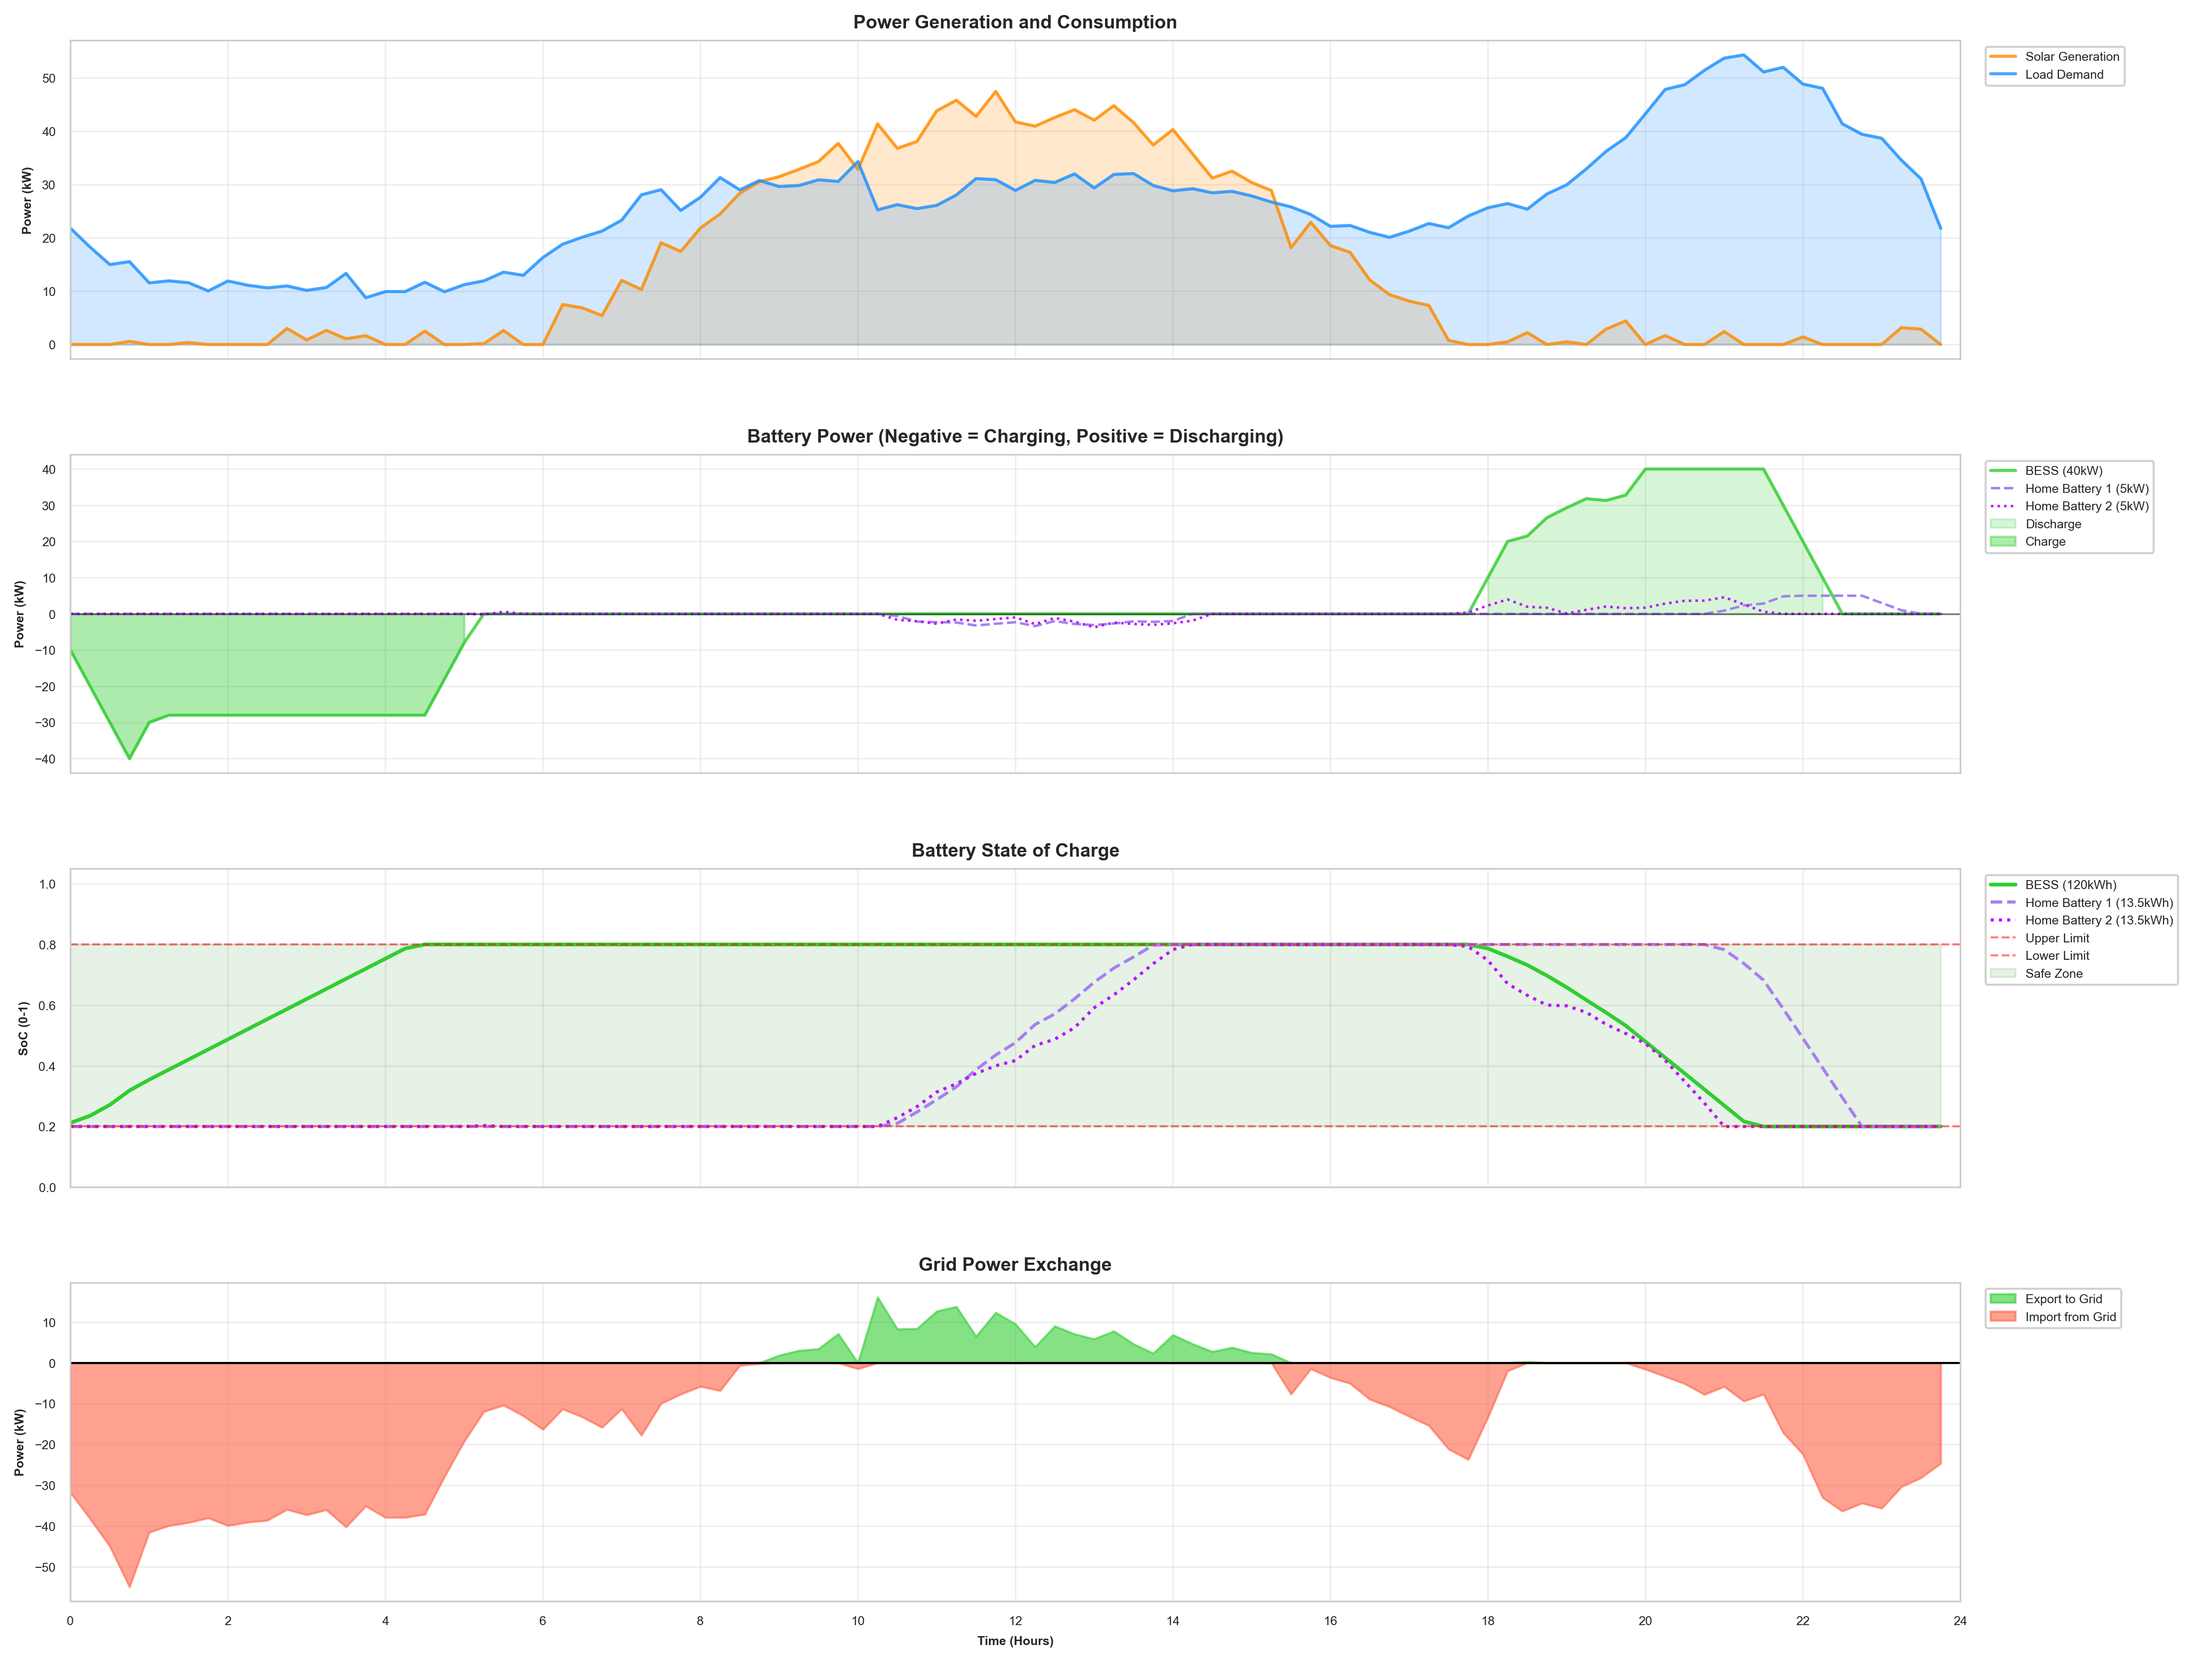
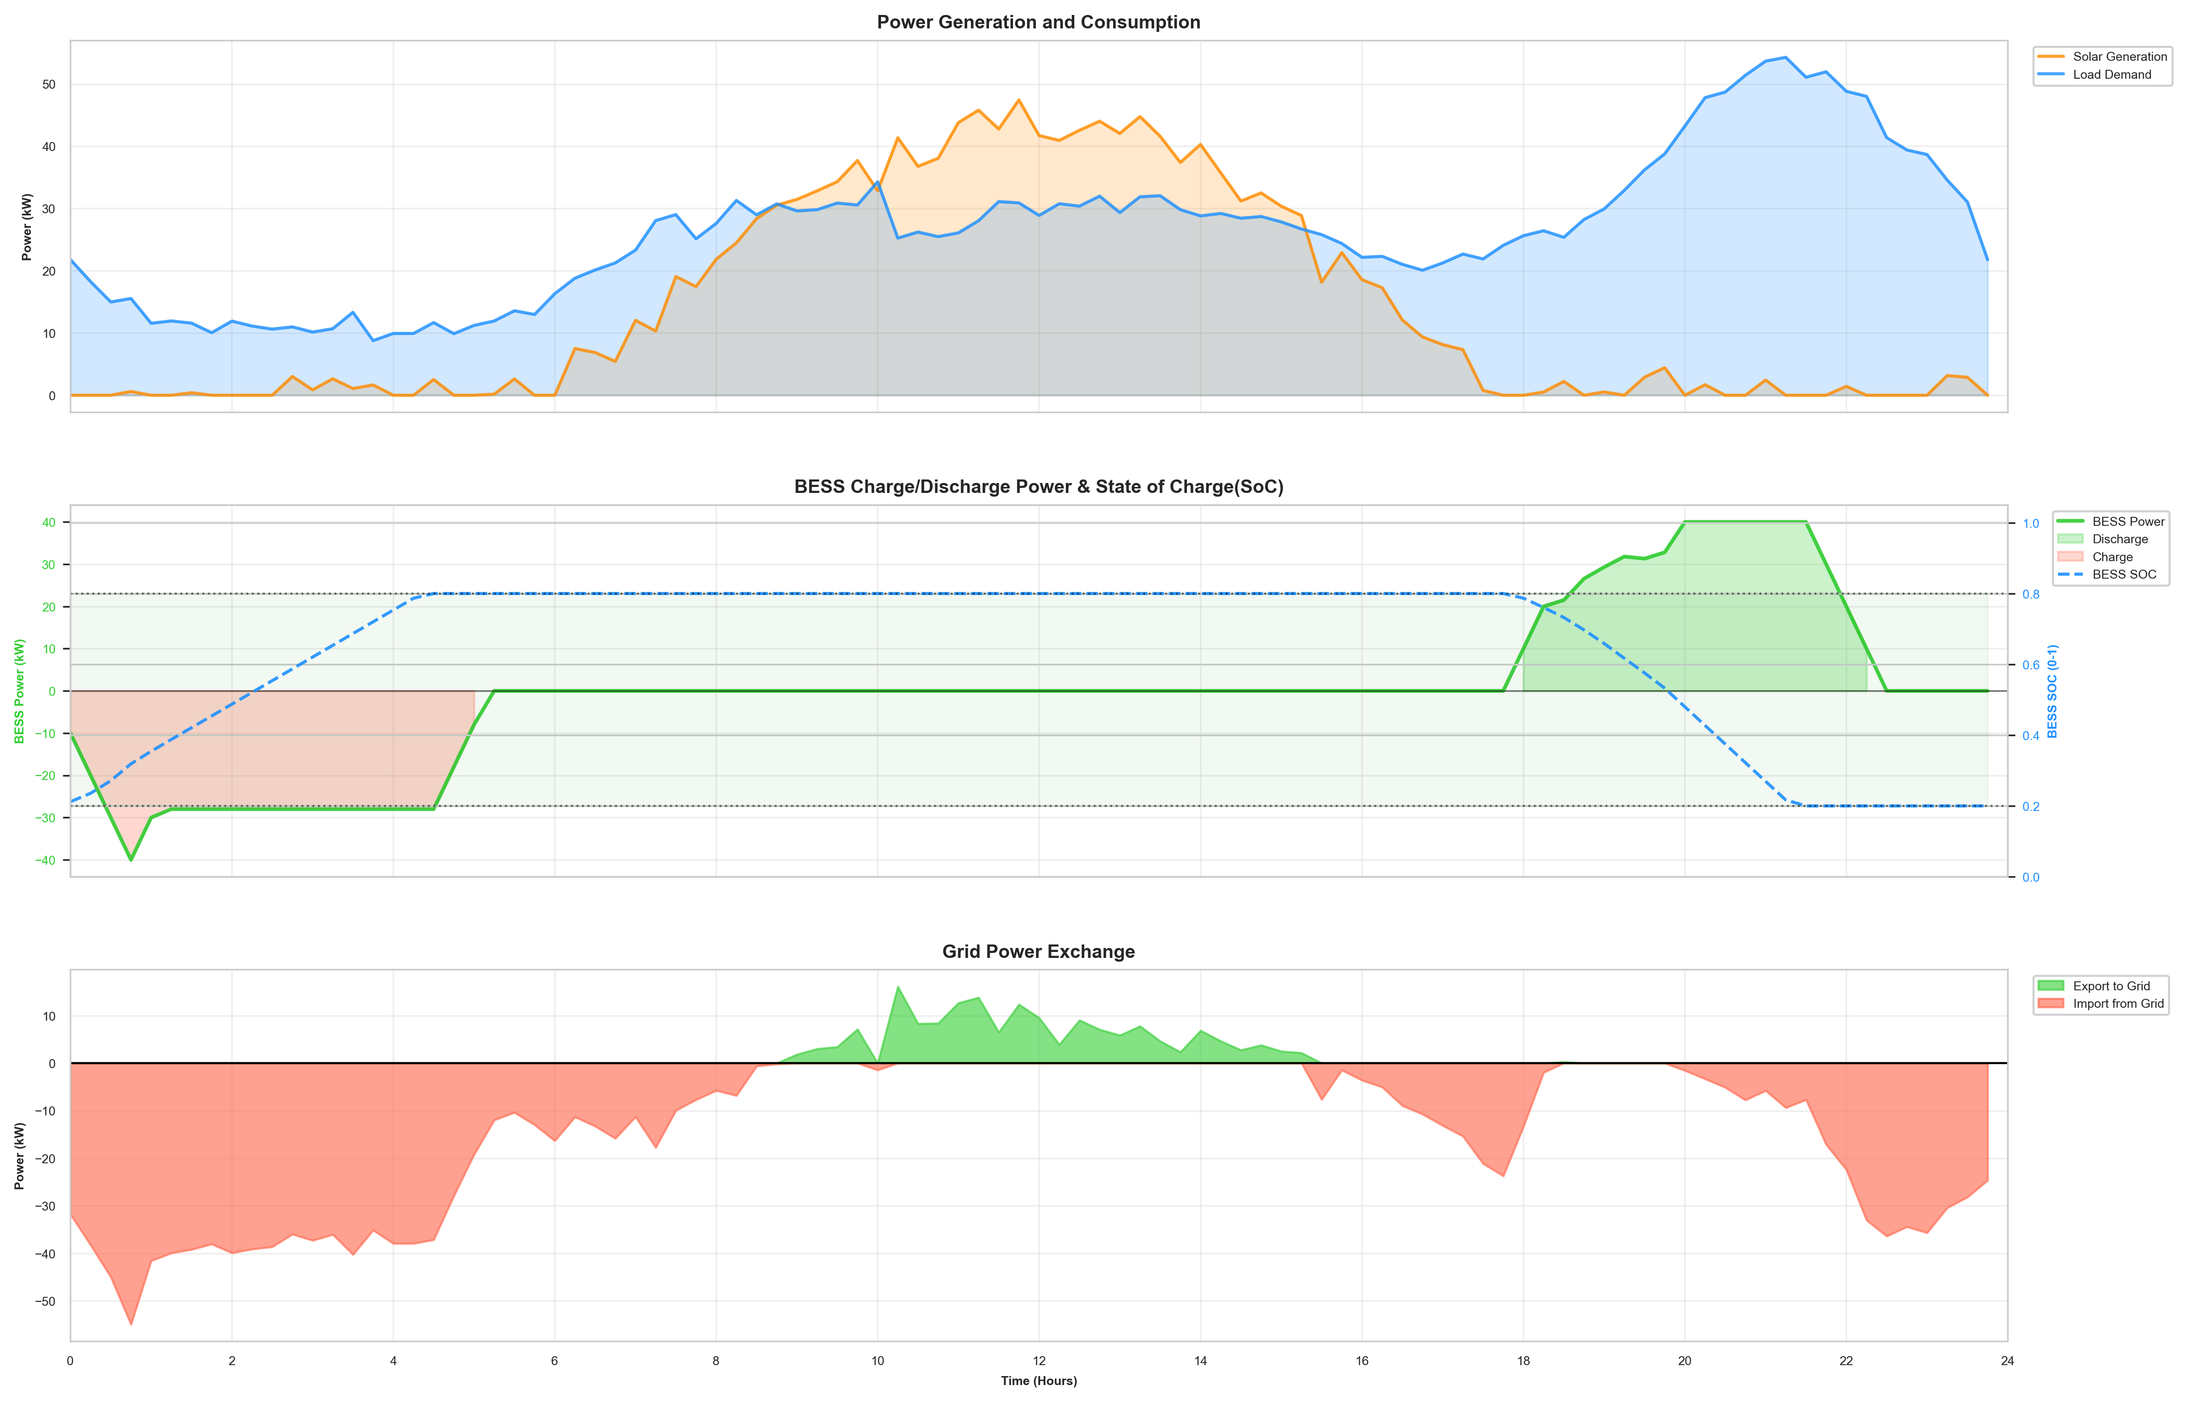
plots update

diff --git a/RL_agent/plot_results.py b/RL_agent/plot_results.py
@@ -91,7 +91,10 @@ history = {
     "rewards": [],  # Track rewards
     "grid_import": [],  # Track grid interactions
     "grid_export": [],
-    "net_power": []  # Net power flow
+    "net_power": [],  # Net power flow
+    # Per-node data for homes
+    "hb1_load": [], "hb1_solar": [],
+    "hb2_load": [], "hb2_solar": []
 }
 
 print("[INFO] Running simulation for 1 day (96 steps)...")
@@ -112,6 +115,12 @@ for step in range(steps_to_plot):
     load_total = np.sum(real_env.load_episode[t])
     history["solar"].append(solar_total)
     history["load"].append(load_total)
+    
+    # Per-node data for homes
+    history["hb1_load"].append(real_env.load_episode[t][HOME_BATTERY_INDICES[0]])
+    history["hb1_solar"].append(real_env.solar_episode[t][HOME_BATTERY_INDICES[0]])
+    history["hb2_load"].append(real_env.load_episode[t][HOME_BATTERY_INDICES[1]])
+    history["hb2_solar"].append(real_env.solar_episode[t][HOME_BATTERY_INDICES[1]])
     
     history["hb1_power"].append(real_env.node_battery_power_kw[HOME_BATTERY_INDICES[0]])
     history["hb2_power"].append(real_env.node_battery_power_kw[HOME_BATTERY_INDICES[1]])
@@ -186,7 +195,7 @@ print(f"[OK] Saved '{output_file_1a}'")
 # FIGURE 2: Comprehensive Power & Economics
 # ==========================================
 print("[INFO] Generating Figure 2 (Detailed Power & Economics)...")
-fig2, axes = plt.subplots(4, 1, figsize=(16, 12), sharex=True)
+fig2, axes = plt.subplots(3, 1, figsize=(16, 10), sharex=True)
 
 # Subplot 1: Power Balance
 axes[0].set_title("Power Generation and Consumption", fontsize=9, fontweight='bold')
@@ -198,56 +207,125 @@ axes[0].set_ylabel("Power (kW)", fontweight='bold')
 axes[0].legend(loc="upper left", bbox_to_anchor=(1.01, 1), framealpha=0.9, fontsize=6)
 axes[0].grid(True, alpha=0.3)
 
-# Subplot 2: Battery Operations
-axes[1].set_title("Battery Power (Negative = Charging, Positive = Discharging)", fontsize=9, fontweight='bold')
-axes[1].plot(time_axis, history["bess_power"], color='#32CD32', linewidth=1.5, label='BESS (40kW)', alpha=0.8)
-axes[1].plot(time_axis, history["hb1_power"], color='#A680F1', linestyle='--', linewidth=1.2, label='Home Battery 1 (5kW)')
-axes[1].plot(time_axis, history["hb2_power"], color='#BC14FF', linestyle=':', linewidth=1.2, label='Home Battery 2 (5kW)')
+# Subplot 2: BESS Charge/Discharge Curve + SOC (Dual Axis)
+axes[1].set_title("BESS Charge/Discharge Power & State of Charge(SoC)", fontsize=9, fontweight='bold')
+# Left y-axis: Power
+axes[1].plot(time_axis, history["bess_power"], color='#32CD32', linewidth=1.8, label='BESS Power', alpha=0.9)
+axes[1].fill_between(time_axis, 0, history["bess_power"], where=np.array(history["bess_power"])>0, color='#32CD32', alpha=0.25, label='Discharge')
+axes[1].fill_between(time_axis, 0, history["bess_power"], where=np.array(history["bess_power"])<0, color='#FF6347', alpha=0.25, label='Charge')
 axes[1].axhline(y=0, color='black', linestyle='-', linewidth=0.8, alpha=0.5)
-axes[1].fill_between(time_axis, 0, history["bess_power"], where=np.array(history["bess_power"])>0, color='#32CD32', alpha=0.2, label='Discharge')
-axes[1].fill_between(time_axis, 0, history["bess_power"], where=np.array(history["bess_power"])<0, color='#32CD32', alpha=0.4, label='Charge')
-axes[1].set_ylabel("Power (kW)", fontweight='bold')
-axes[1].legend(loc="upper left", bbox_to_anchor=(1.01, 1), framealpha=0.9, fontsize=6)
+axes[1].set_ylabel("BESS Power (kW)", fontweight='bold', color='#32CD32')
+axes[1].tick_params(axis='y', labelcolor='#32CD32')
+# Right y-axis: SOC
+ax1_right = axes[1].twinx()
+ax1_right.plot(time_axis, history["soc_bess"], color='#1E90FF', linewidth=1.5, linestyle='--', label='BESS SOC', alpha=0.9)
+ax1_right.axhline(y=0.8, color='black', linestyle=':', linewidth=1, alpha=0.5)
+ax1_right.axhline(y=0.2, color='black', linestyle=':', linewidth=1, alpha=0.5)
+ax1_right.fill_between(time_axis, 0.2, 0.8, color='green', alpha=0.05)
+ax1_right.set_ylabel("BESS SOC (0-1)", fontweight='bold', color='#1E90FF')
+ax1_right.tick_params(axis='y', labelcolor='#1E90FF')
+ax1_right.set_ylim(0, 1.05)
+# Combined legend
+lines1, labels1 = axes[1].get_legend_handles_labels()
+lines2, labels2 = ax1_right.get_legend_handles_labels()
+axes[1].legend(lines1 + lines2, labels1 + labels2, loc="upper left", bbox_to_anchor=(1.02, 1), framealpha=0.9, fontsize=6)
 axes[1].grid(True, alpha=0.3)
 
-# Subplot 3: Battery State of Charge
-axes[2].set_title("Battery State of Charge", fontsize=9, fontweight='bold')
-axes[2].plot(time_axis, history["soc_bess"], color='#32CD32', linewidth=1.8, label='BESS (120kWh)')
-axes[2].plot(time_axis, history["soc_hb1"], color="#A680F1", linestyle='--', linewidth=1.5, label='Home Battery 1 (13.5kWh)')
-axes[2].plot(time_axis, history["soc_hb2"], color="#BC14FF", linestyle=':', linewidth=1.5, label='Home Battery 2 (13.5kWh)')
-axes[2].axhline(y=0.8, color='red', linestyle='--', linewidth=1, alpha=0.5, label='Upper Limit')
-axes[2].axhline(y=0.2, color='red', linestyle='--', linewidth=1, alpha=0.5, label='Lower Limit')
-axes[2].fill_between(time_axis, 0.2, 0.8, color='green', alpha=0.1, label='Safe Zone')
-axes[2].set_ylabel("SoC (0-1)", fontweight='bold')
-axes[2].set_ylim(0, 1.05)
+# Subplot 3: Grid Interaction
+axes[2].set_title("Grid Power Exchange", fontsize=9, fontweight='bold')
+axes[2].fill_between(time_axis, 0, history["grid_export"], color='#32CD32', alpha=0.6, label='Export to Grid')
+axes[2].fill_between(time_axis, 0, [-x for x in history["grid_import"]], color='#FF6347', alpha=0.6, label='Import from Grid')
+axes[2].axhline(y=0, color='black', linestyle='-', linewidth=1)
+axes[2].set_ylabel("Power (kW)", fontweight='bold')
+axes[2].set_xlabel("Time (Hours)", fontweight='bold')
 axes[2].legend(loc="upper left", bbox_to_anchor=(1.01, 1), framealpha=0.9, fontsize=6)
 axes[2].grid(True, alpha=0.3)
-
-# Subplot 4: Grid Interaction
-axes[3].set_title("Grid Power Exchange", fontsize=9, fontweight='bold')
-axes[3].fill_between(time_axis, 0, history["grid_export"], color='#32CD32', alpha=0.6, label='Export to Grid')
-axes[3].fill_between(time_axis, 0, [-x for x in history["grid_import"]], color='#FF6347', alpha=0.6, label='Import from Grid')
-axes[3].axhline(y=0, color='black', linestyle='-', linewidth=1)
-axes[3].set_ylabel("Power (kW)", fontweight='bold')
-axes[3].set_xlabel("Time (Hours)", fontweight='bold')
-axes[3].legend(loc="upper left", bbox_to_anchor=(1.01, 1), framealpha=0.9, fontsize=6)
-axes[3].grid(True, alpha=0.3)
 
 # Format x-axis
 for ax in axes:
     ax.set_xticks(np.arange(0, 25, 2))
     ax.set_xlim(0, 24)
 
-plt.subplots_adjust(left=0.06, bottom=0.08, right=0.85, top=0.95, hspace=0.3)
+plt.subplots_adjust(left=0.06, bottom=0.08, right=0.87, top=0.95, hspace=0.25)
 output_file_2 = f"{SCENARIO_FOLDER}/1_power_economics_detailed.png"
 plt.savefig(output_file_2, dpi=300, bbox_inches='tight')
 print(f"[OK] Saved '{output_file_2}'")
 
 # ==========================================
-# FIGURE 3: Voltage Profiles (All Nodes)
 # ==========================================
-print("[INFO] Generating Figure 3 (Voltage Profiles)...")
-fig3, axes = plt.subplots(3, 1, figsize=(16, 10), sharex=True)
+# FIGURE 3: Home Batteries - Detailed Per-Home Analysis
+# ==========================================
+print("[INFO] Generating Figure 3 (Home Batteries Details)...")
+fig3, axes = plt.subplots(2, 1, figsize=(16, 10), sharex=True)
+
+# Subplot 1: Home 1 (Node 3) - Load, Solar, Battery Power (Left Axis), SOC (Right Axis)
+axes[0].set_title(f"Home at Node {HOME_BATTERY_INDICES[0]} - Load, Solar, Battery Operations & State of Charge", fontsize=10, fontweight='bold')
+# Left y-axis: Power flows
+axes[0].plot(time_axis, history["hb1_load"], color='#1E90FF', linewidth=1, label='Load Demand', alpha=0.8)
+axes[0].plot(time_axis, history["hb1_solar"], color='#FF8C00', linewidth=1, label='Solar Generation', alpha=0.8)
+axes[0].plot(time_axis, history["hb1_power"], color='#32CD32', linewidth=1, label='Battery Power', alpha=0.8)
+axes[0].fill_between(time_axis, 0, history["hb1_power"], where=np.array(history["hb1_power"])>0, color='#32CD32', alpha=0.2, label='Discharge')
+axes[0].fill_between(time_axis, 0, history["hb1_power"], where=np.array(history["hb1_power"])<0, color='#FF6347', alpha=0.2, label='Charge')
+axes[0].axhline(y=0, color='black', linestyle='-', linewidth=0.8, alpha=0.5)
+axes[0].set_ylabel("Power (kW)", fontweight='bold', color='black')
+axes[0].tick_params(axis='y', labelcolor='black')
+# Right y-axis: SOC
+ax0_right = axes[0].twinx()
+ax0_right.plot(time_axis, history["soc_hb1"], color='#1E90FF', linewidth=1.5, linestyle='--', label='Battery SOC', alpha=0.9)
+ax0_right.axhline(y=0.8, color='black', linestyle=':', linewidth=1, alpha=0.5)
+ax0_right.axhline(y=0.2, color='black', linestyle=':', linewidth=1, alpha=0.5)
+ax0_right.fill_between(time_axis, 0.2, 0.8, color='green', alpha=0.05)
+ax0_right.set_ylabel("Battery SOC (0-1)", fontweight='bold', color='#1E90FF')
+ax0_right.tick_params(axis='y', labelcolor='#1E90FF')
+ax0_right.set_ylim(0, 1.05)
+# Combined legend
+lines0, labels0 = axes[0].get_legend_handles_labels()
+lines0r, labels0r = ax0_right.get_legend_handles_labels()
+axes[0].legend(lines0 + lines0r, labels0 + labels0r, loc="upper left", bbox_to_anchor=(1.03, 1), framealpha=0.9, fontsize=6)
+axes[0].grid(True, alpha=0.3)
+
+# Subplot 2: Home 2 (Node 5) - Load, Solar, Battery Power (Left Axis), SOC (Right Axis)
+axes[1].set_title(f"Home at Node {HOME_BATTERY_INDICES[1]} - Load, Solar, Battery Operations & State of Charge(SoC)", fontsize=10, fontweight='bold')
+# Left y-axis: Power flows
+axes[1].plot(time_axis, history["hb2_load"], color='#1E90FF', linewidth=1, label='Load Demand', alpha=0.8)
+axes[1].plot(time_axis, history["hb2_solar"], color='#FF8C00', linewidth=1, label='Solar Generation', alpha=0.8)
+axes[1].plot(time_axis, history["hb2_power"], color='#32CD32', linewidth=1, label='Battery Power', alpha=0.8)
+axes[1].fill_between(time_axis, 0, history["hb2_power"], where=np.array(history["hb2_power"])>0, color='#32CD32', alpha=0.2, label='Discharge')
+axes[1].fill_between(time_axis, 0, history["hb2_power"], where=np.array(history["hb2_power"])<0, color='#FF6347', alpha=0.2, label='Charge')
+axes[1].axhline(y=0, color='black', linestyle='-', linewidth=0.8, alpha=0.5)
+axes[1].set_ylabel("Power (kW)", fontweight='bold', color='black')
+axes[1].set_xlabel("Time (Hours)", fontweight='bold')
+axes[1].tick_params(axis='y', labelcolor='black')
+# Right y-axis: SOC
+ax1_right = axes[1].twinx()
+ax1_right.plot(time_axis, history["soc_hb2"], color='#1E90FF', linewidth=1.5, linestyle='--', label='Battery SOC', alpha=0.9)
+ax1_right.axhline(y=0.8, color='black', linestyle=':', linewidth=1, alpha=0.5)
+ax1_right.axhline(y=0.2, color='black', linestyle=':', linewidth=1, alpha=0.5)
+ax1_right.fill_between(time_axis, 0.2, 0.8, color='green', alpha=0.05)
+ax1_right.set_ylabel("Battery SOC (0-1)", fontweight='bold', color='#1E90FF')
+ax1_right.tick_params(axis='y', labelcolor='#1E90FF')
+ax1_right.set_ylim(0, 1.05)
+# Combined legend
+lines1, labels1 = axes[1].get_legend_handles_labels()
+lines1r, labels1r = ax1_right.get_legend_handles_labels()
+axes[1].legend(lines1 + lines1r, labels1 + labels1r, loc="upper left", bbox_to_anchor=(1.03, 1), framealpha=0.9, fontsize=6)
+axes[1].grid(True, alpha=0.3)
+
+# Format x-axis
+for ax in axes:
+    ax.set_xticks(np.arange(0, 25, 2))
+    ax.set_xlim(0, 24)
+
+plt.subplots_adjust(left=0.06, bottom=0.08, right=0.85, top=0.95, hspace=0.25)
+output_file_3 = f"{SCENARIO_FOLDER}/1_5_home_batteries.png"
+plt.savefig(output_file_3, dpi=300, bbox_inches='tight')
+print(f"[OK] Saved '{output_file_3}'")
+
+# ==========================================
+# FIGURE 4: Voltage Profiles (All Nodes)
+# ==========================================
+print("[INFO] Generating Figure 4 (Voltage Profiles)...")
+fig4, axes = plt.subplots(3, 1, figsize=(16, 10), sharex=True)
 
 # Plot 1: BESS Node Voltage
 axes[0].set_title("Voltage at BESS Connection Point", fontsize=10, fontweight='bold')
@@ -298,15 +376,15 @@ for ax in axes:
     ax.set_xlim(0, 24)
 
 plt.subplots_adjust(left=0.05, bottom=0.08, right=0.85, top=0.94, hspace=0.22)
-output_file_3 = f"{SCENARIO_FOLDER}/2_voltage_profiles.png"
-plt.savefig(output_file_3, dpi=300, bbox_inches='tight')
-print(f"[OK] Saved '{output_file_3}'")
+output_file_4 = f"{SCENARIO_FOLDER}/2_voltage_profiles.png"
+plt.savefig(output_file_4, dpi=300, bbox_inches='tight')
+print(f"[OK] Saved '{output_file_4}'")
 
 # ==========================================
-# FIGURE 4: Economic Performance & Rewards
+# FIGURE 5: Economic Performance & Rewards
 # ==========================================
-print("[INFO] Generating Figure 4 (Economics & Rewards)...")
-fig4, axes = plt.subplots(2, 1, figsize=(16, 8), sharex=True)
+print("[INFO] Generating Figure 5 (Economics & Rewards)...")
+fig5, axes = plt.subplots(2, 1, figsize=(16, 8), sharex=True)
 
 # Plot 1: Cumulative Reward
 cumulative_rewards = np.cumsum(history["rewards"])
@@ -336,9 +414,9 @@ for ax in axes:
     ax.set_xlim(0, 24)
 
 plt.subplots_adjust(left=0.06, bottom=0.08, right=0.97, top=0.95, hspace=0.2)
-output_file_4 = f"{SCENARIO_FOLDER}/3_rewards.png"
-plt.savefig(output_file_4, dpi=300, bbox_inches='tight')
-print(f"[OK] Saved '{output_file_4}'")
+output_file_5 = f"{SCENARIO_FOLDER}/3_rewards.png"
+plt.savefig(output_file_5, dpi=300, bbox_inches='tight')
+print(f"[OK] Saved '{output_file_5}'")
 
 # ==========================================
 # EXPORT DATA
